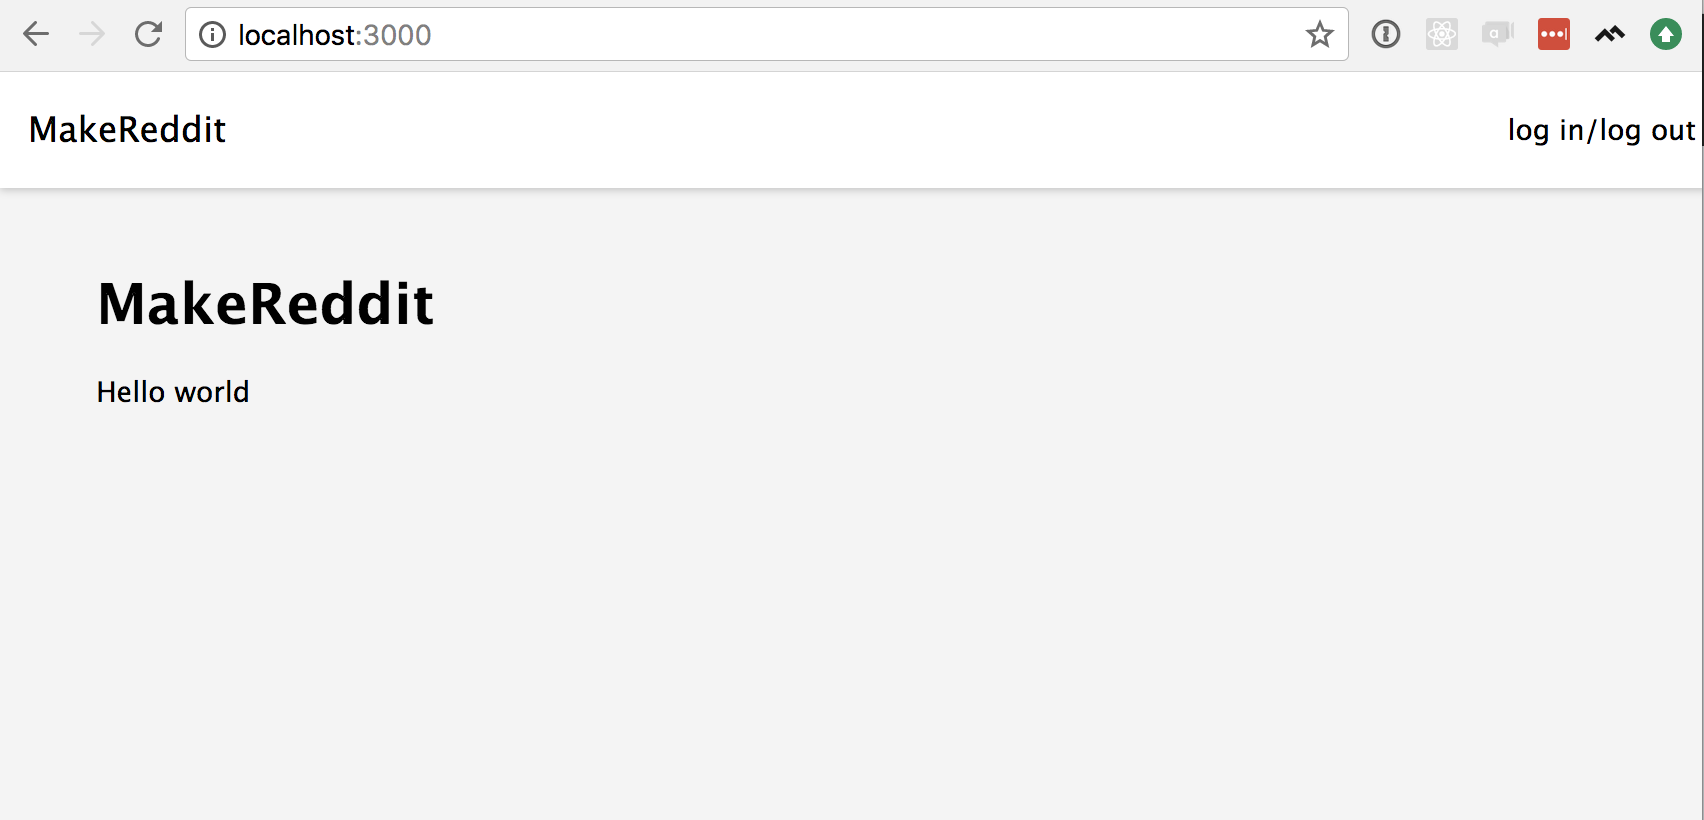
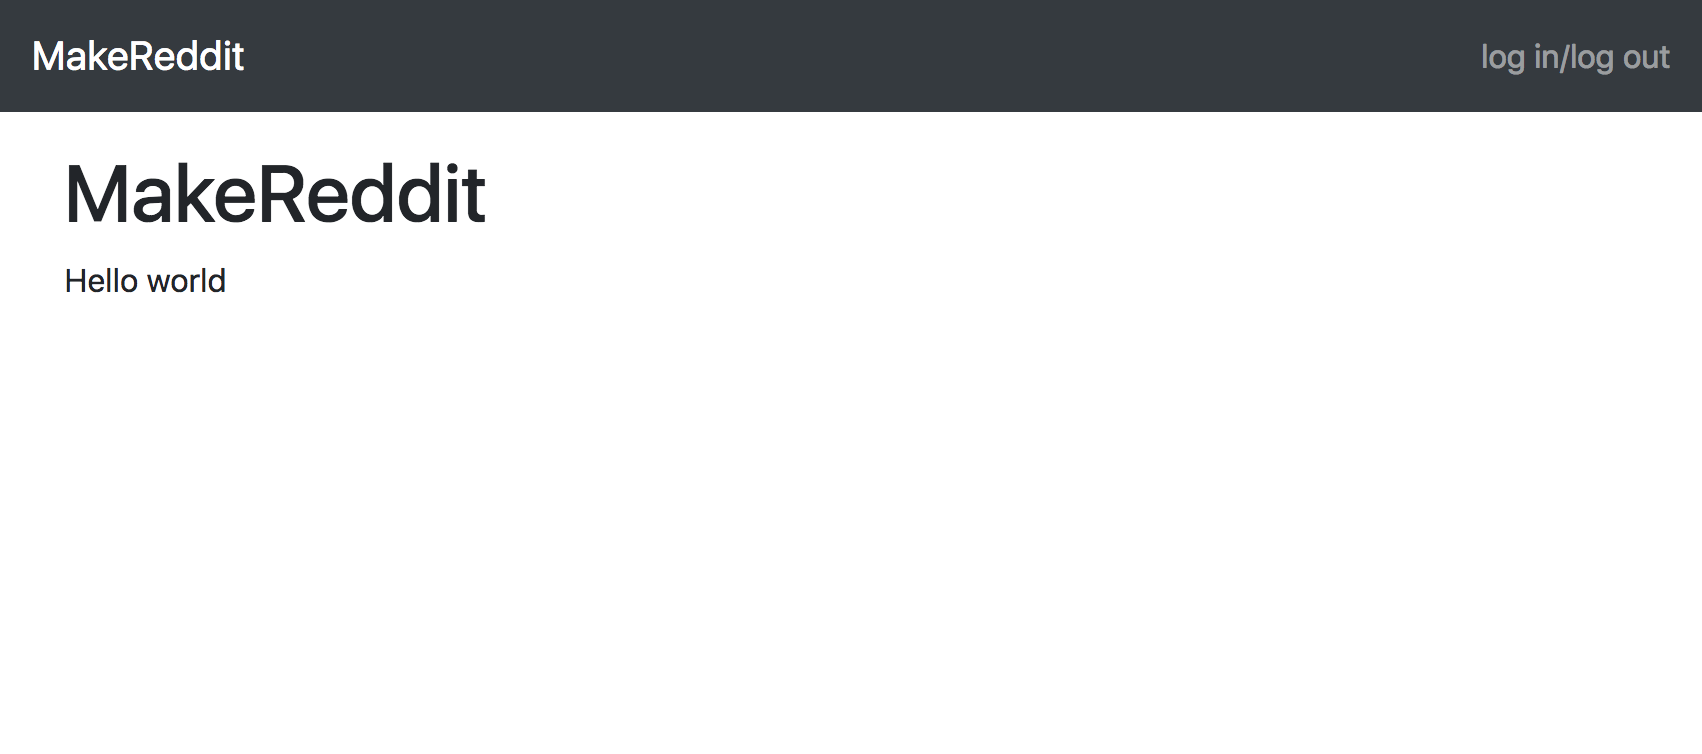
p01 replace bootstrap, remove sass

Changed region(s): [[0.0, 0.0, 1.0, 1.0], [0.0311, 0.3355, 0.2491, 0.3966], [0.0623, 0.4576, 0.1557, 0.4881]]

diff --git a/P01-Setting-Up-I/content.md b/P01-Setting-Up-I/content.md
@@ -168,23 +168,22 @@ Now, **without** restarting the server, let's go to the browser and refresh the 
 :satisfied:
 
 # Handlebars and Bootstrap
-<!-- TODO: remove bootstrap references -->
 
 <!-- ## Handlebars -->
 <!-- Handlebars is a templating engine. A templating engine is... -->
-
 <!-- [TODO: no code writing here, just a quick overview of what Handlebars is, what the `{{...}}` tags are, etc...] -->
 
 ## Layout File
 
 Remember what we learned about HTML in previous tutorials, and then let's look back at `views/index`:
+<!-- TODO: which previous tutorials? -->
 
 ```HTML
 <h1>{{title}}</h1>
 <p>Hello world</p>
 ```
 
-what's missing?  This isn't a complete HTML document... Let's open the `views/layout.hbs` file.  At first, it should look like this:
+What's missing?  This isn't a complete HTML document... Let's open the `views/layout.hbs` file.  At first, it should look like this:
 
 ```HTML
 <!DOCTYPE html>
@@ -199,7 +198,7 @@ what's missing?  This isn't a complete HTML document... Let's open the `views/la
 </html>
 ```
 
-Here's everything missing from `views/index.hbs`. This layout file is special because it will load with every page in our app. The contents of `index.hbs` are rendered in place of `{{{body}}}`.
+Here's all the missing parts from `views/index.hbs`. This layout file is special because it will load with every page in our app. The contents of `index.hbs` are rendered in place of `{{{body}}}`.
 
 <!-- TODO: elaborate, including example with wireframes would be nice -->
 
@@ -216,7 +215,7 @@ Let's add a navigation bar that will load at the top of every page in our app. B
   </head>
   <body>
     <nav>
-      <div class="logo">
+      <div>
         MakeReddit
       </div>
 
@@ -248,13 +247,54 @@ hmm... That's obviously not great. Let's add some styling.
 
 ## Bootstrap
 
-<!-- TODO -->
+[Bootstrap](https://getbootstrap.com/) is a really popular toolkit for CSS and Javascript, though for this tutorial we'll only use its CSS capabilities. There are [a few different ways to install bootstrap](https://getbootstrap.com/docs/4.0/getting-started/introduction/), but the simplest is to paste the following code inside the `<head>...</head>` tags of `views/layout.hbs`:
+
+```HTML
+<!-- Required meta tags -->
+<meta charset="utf-8">
+<meta name="viewport" content="width=device-width, initial-scale=1, shrink-to-fit=no">
+
+<!-- Bootstrap CSS -->
+<link rel="stylesheet" href="https://maxcdn.bootstrapcdn.com/bootstrap/4.0.0/css/bootstrap.min.css" integrity="sha384-Gn5384xqQ1aoWXA+058RXPxPg6fy4IWvTNh0E263XmFcJlSAwiGgFAW/dAiS6JXm" crossorigin="anonymous">
+```
+
+And that's it. Bootstrap is installed. To use it, we just need to add the correct classes to our HTML. Bootstrap provides a complete set of pre-styled components, and we want to use their [navbar](https://getbootstrap.com/docs/4.0/components/navbar/). According to those instructions, we just need to add classes to our `<nav>` and `<div>` tags. Update your `views/layout.hbs` file to match the following:
+
+```HTML
+<!DOCTYPE html>
+<html>
+  <head>
+    <!-- Required meta tags -->
+    <meta charset="utf-8">
+    <meta name="viewport" content="width=device-width, initial-scale=1, shrink-to-fit=no">
+
+    <!-- Bootstrap CSS -->
+    <link rel="stylesheet" href="https://maxcdn.bootstrapcdn.com/bootstrap/4.0.0/css/bootstrap.min.css" integrity="sha384-Gn5384xqQ1aoWXA+058RXPxPg6fy4IWvTNh0E263XmFcJlSAwiGgFAW/dAiS6JXm" crossorigin="anonymous">
+
+    <title>{{title}}</title>
+    <link rel='stylesheet' href='/stylesheets/style.css' />
+  </head>
+  <body>
+    <nav class="navbar navbar-dark bg-dark">
+      <div class="navbar-brand">
+        MakeReddit
+      </div>
+
+      <div class="navbar-text">
+        log in/log out
+      </div>
+    </nav>
+
+    <main>
+      {{{body}}}
+    </main>
+  </body>
+</html>
+```
 
 And then let's check out our nav bar at `localhost:3000`:
 
 ![nav bar](assets/nav_bar_2.png)
-
-
 
 <!-- # Summary
 TODO -->
@@ -267,6 +307,7 @@ TODO -->
 
 - [Express](https://expressjs.com/)
 - [Handlebars](https://handlebarsjs.com)
+- [Bootstrap](https://getbootstrap.com/)
 - [HTML5 Tag Reference](https://developer.mozilla.org/en-US/docs/Web/HTML/Element)
 - [Express Generator](https://expressjs.com/en/starter/generator.html)
 - [Webpack](https://webpack.js.org/)
